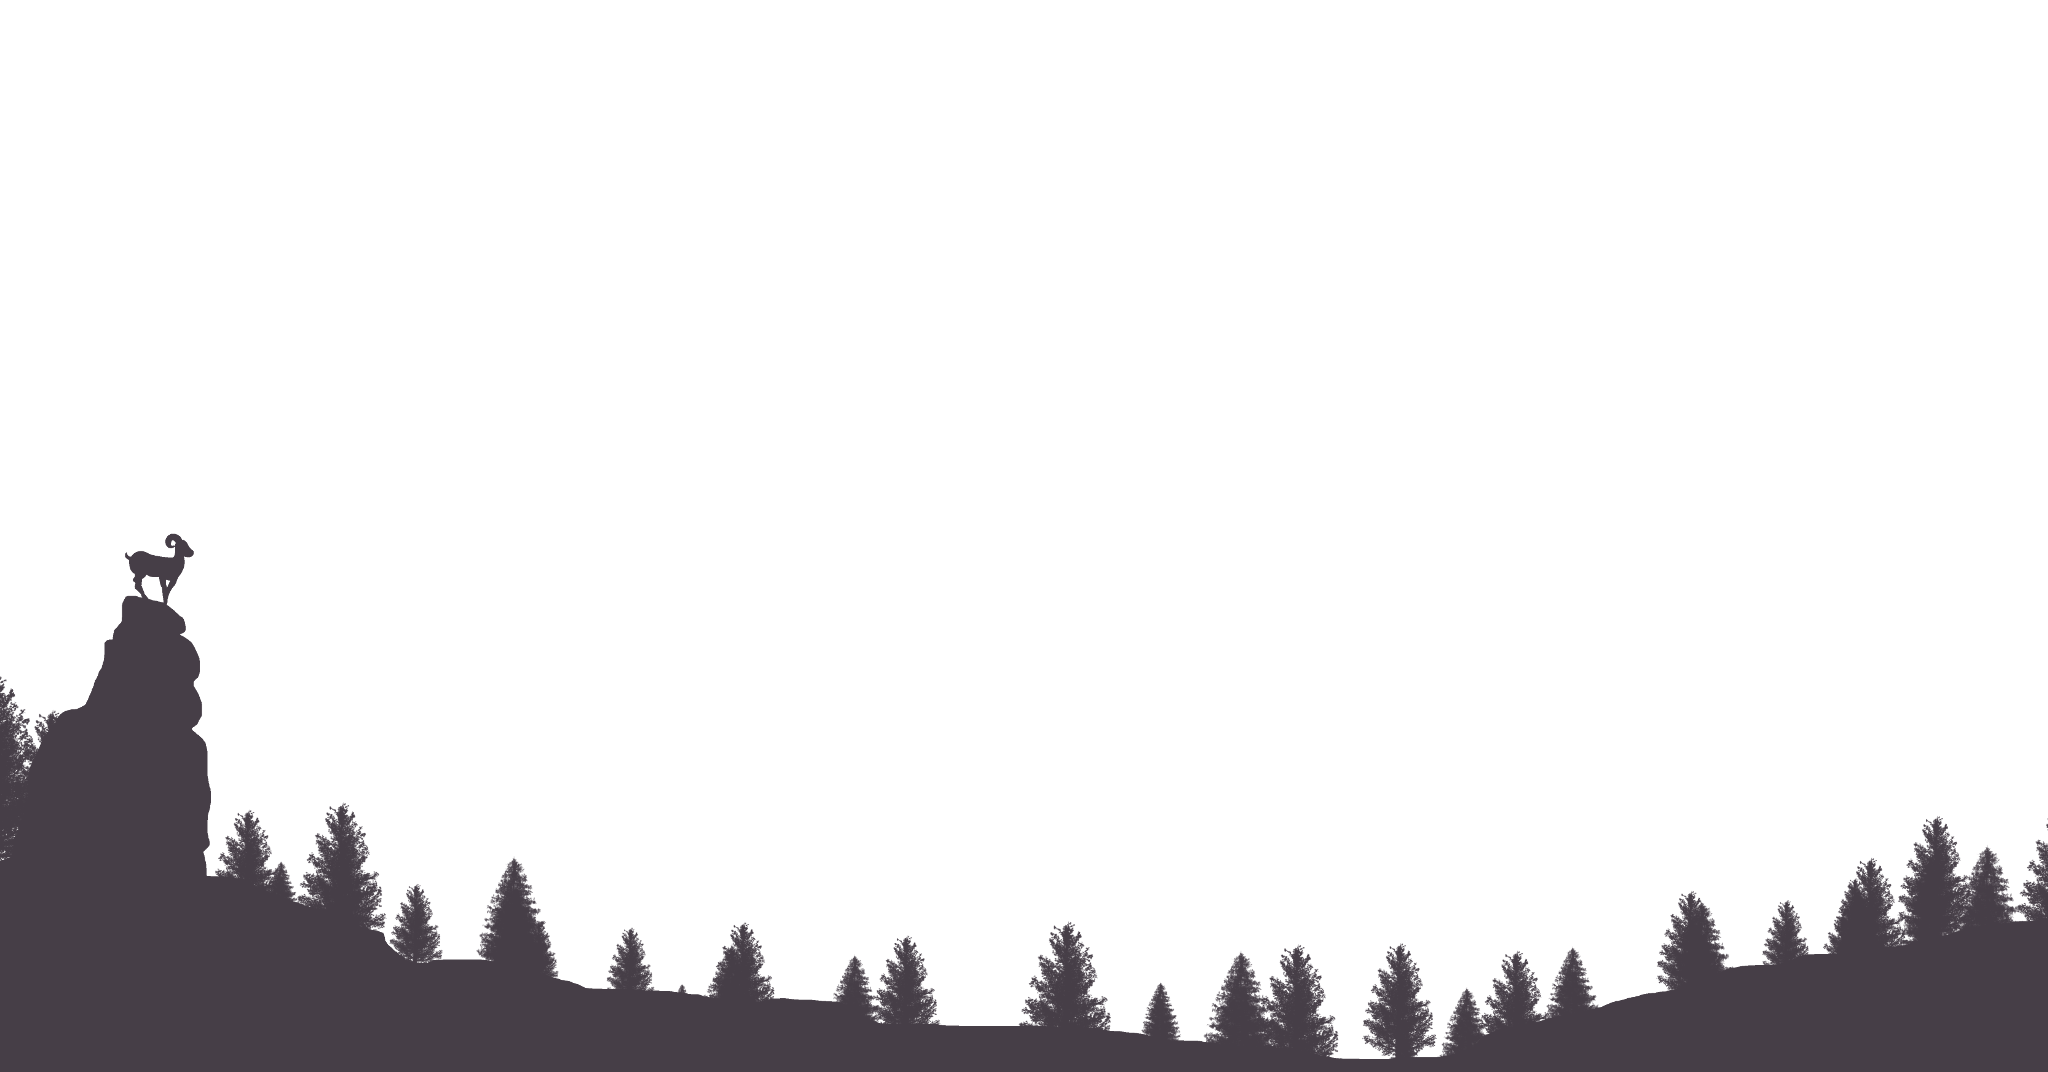
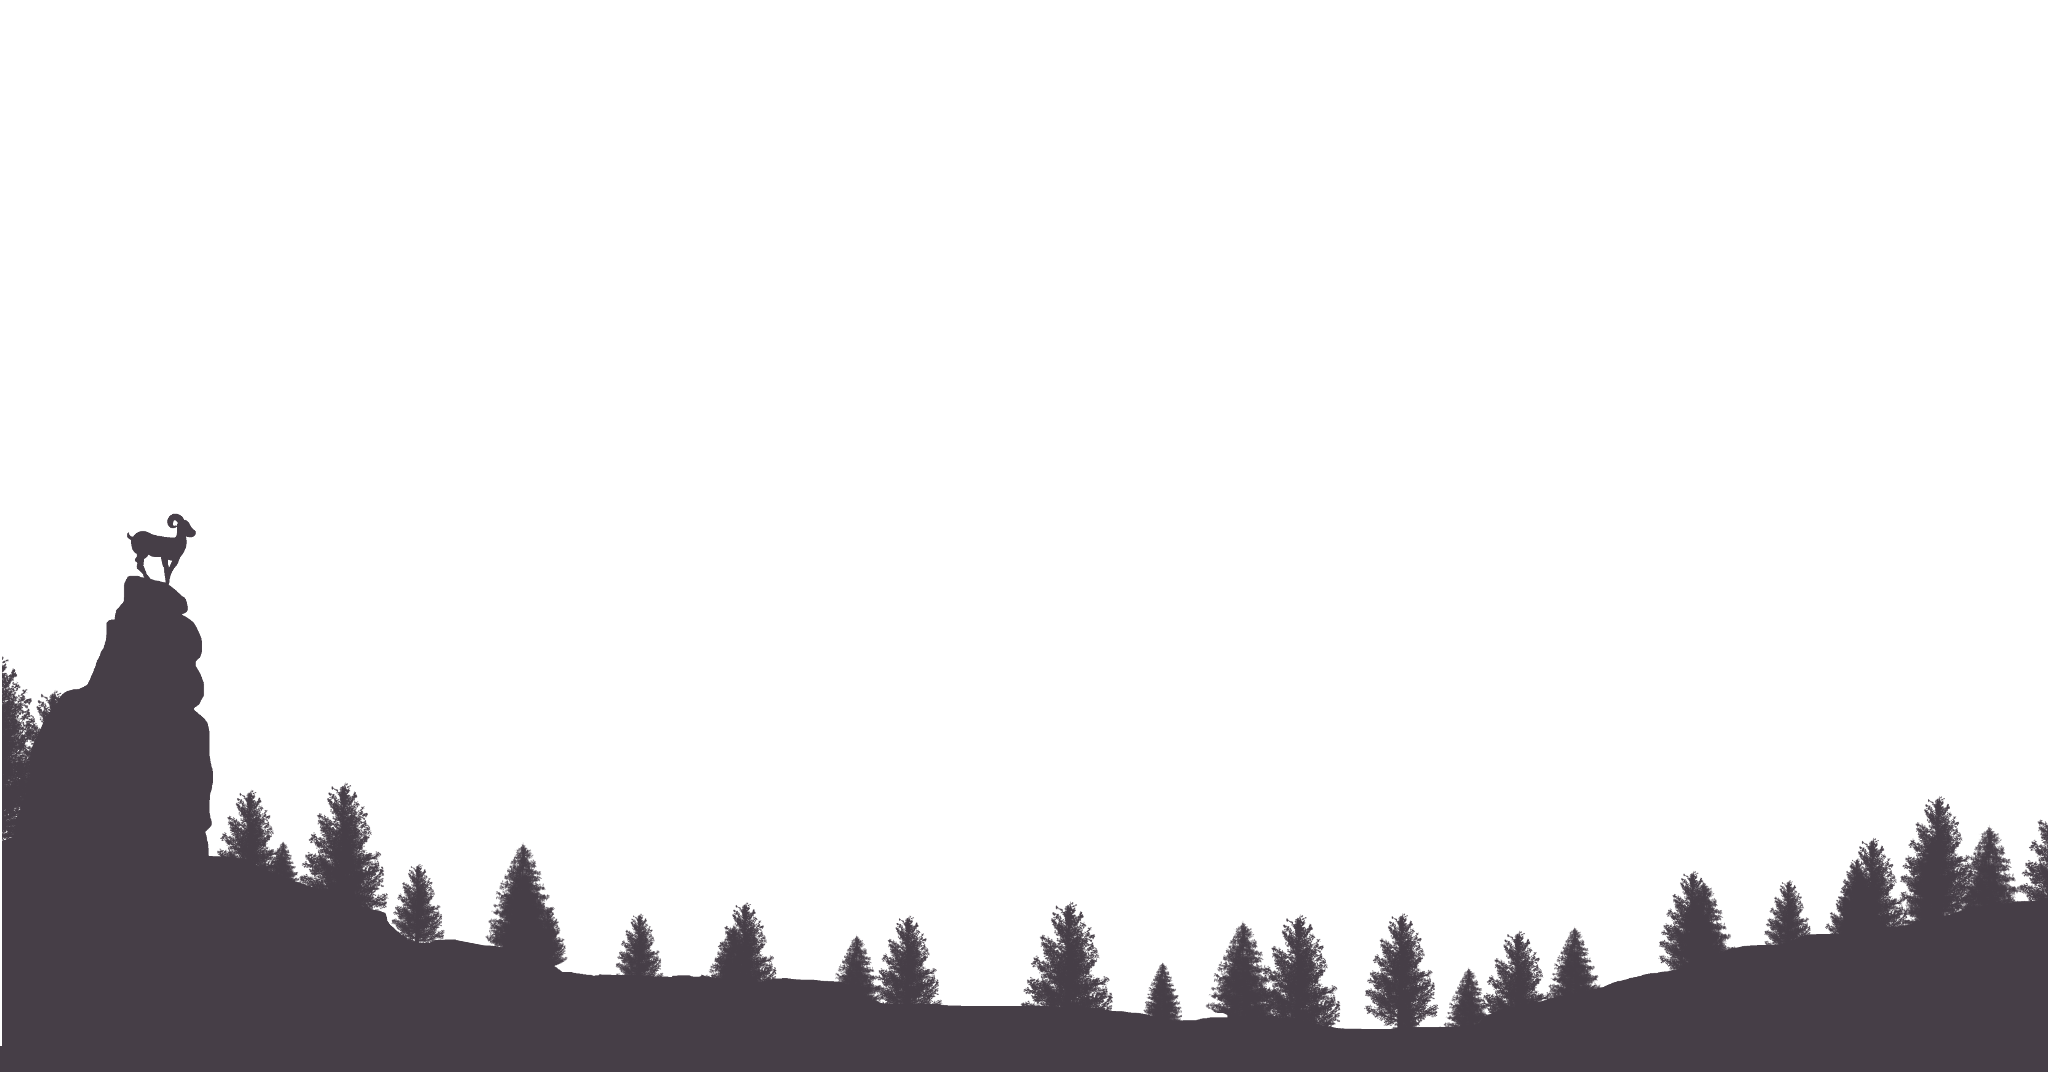
header images

diff --git a/css/home.css b/css/home.css
@@ -1,5 +1,6 @@
 .full-height > .jumbotron {
   height: 800px;
+  max-height: 1024px;
   padding: 0;
 	margin: 0;
 }
@@ -17,16 +18,21 @@
   background-size: cover;
   background-position: center bottom;
   height: inherit;
+  max-height: 1024px;
   width: 100%;
   position: absolute;
 }
 
+header.full-height > .jumbotron {
+  position: relative;
+}
+
 header #title {
+  top: 10px;
   width: 70%;
   left: 15%;
   z-index: 6;
   height: initial;
-  display: none;
 }
 
 header #five {
@@ -35,23 +41,24 @@ header #five {
 }
 
 header #four {
-  background-image: url(../images/gch/layer1.png);
+  background-image: url(../images/gch/sitterson.png);
   z-index: 4;
 }
 header #three {
+  background-image: url(../images/gch/layer1.png);
   z-index: 3;
 }
 
 header #two {
   background-image: url(../images/gch/layer2.png);
   z-index: 2;
-	margin-top: -60px;
+  /*margin-top: -60px;*/
 }
 
 header #one {
   background-image: url(../images/gch/layer3.png);
   z-index: 1;
-	margin-top: -100px;
+  /*margin-top: -100px;*/
 }
 
 header #zero {
@@ -101,11 +108,11 @@ header #zero {
 #mlh-trust-badge {
 	position: absolute;
 	top: 0;
-	right: 50px;
-	max-width: 100px;
+  right: 25px;
+  max-width: 80px;
 	width: 10%;
 	min-width: 60px;
-	z-index:10;
+  z-index: 3;
 }
 
 #nav.affix {

diff --git a/index.html b/index.html
@@ -20,7 +20,7 @@
 </head>
 
 <body>
-	<a id="mlh-trust-badge" style="position:absolute;top:0;right:50px;max-width:100px;width:10%;min-width: 60px;display:block;z-index:10000" href="https://mlh.io/?utm_campaign=Trust%20Badge" target="_blank">
+<a id="mlh-trust-badge" href="https://mlh.io/?utm_campaign=Trust%20Badge" target="_blank">
 		<img src="https://s3.amazonaws.com/logged-assets/trust-badge/f2015.png" alt="MLH Official - Fall 2015" style="width:100%;">
 	</a>
 	<header class="full-height">

diff --git a/js/home-header.js b/js/home-header.js
@@ -1,9 +1,7 @@
 var fullHeight = function () {
   var height = $(window).height() - $('nav').height();
-  $('.full-height > .jumbotron').css('height', height);
-  var $title = $('header #title');
-  $title.css('top', height / 2);
-  $title.show();
+  var $fullHeighters = $('.full-height > .jumbotron');
+  $fullHeighters.css('height', height);
 };
 
 fullHeight();
